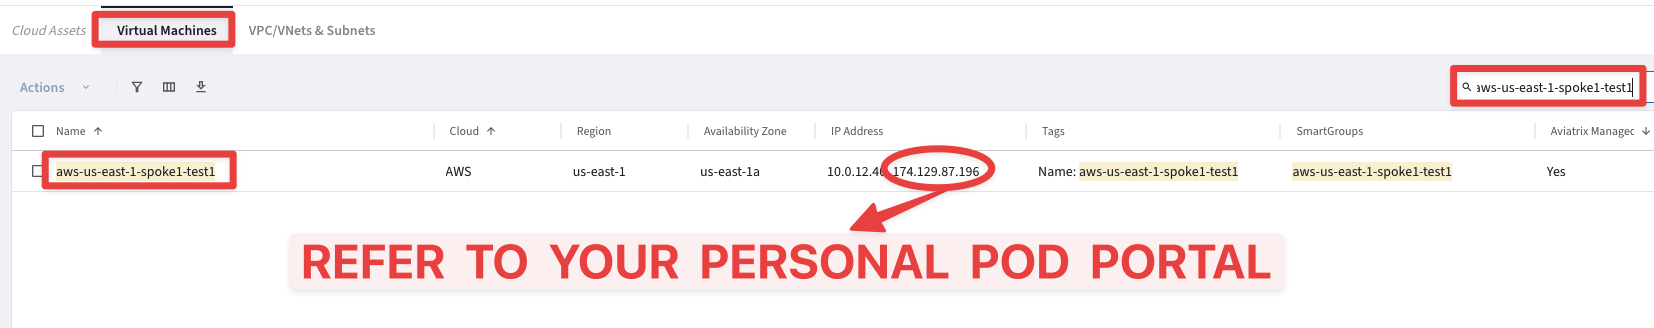
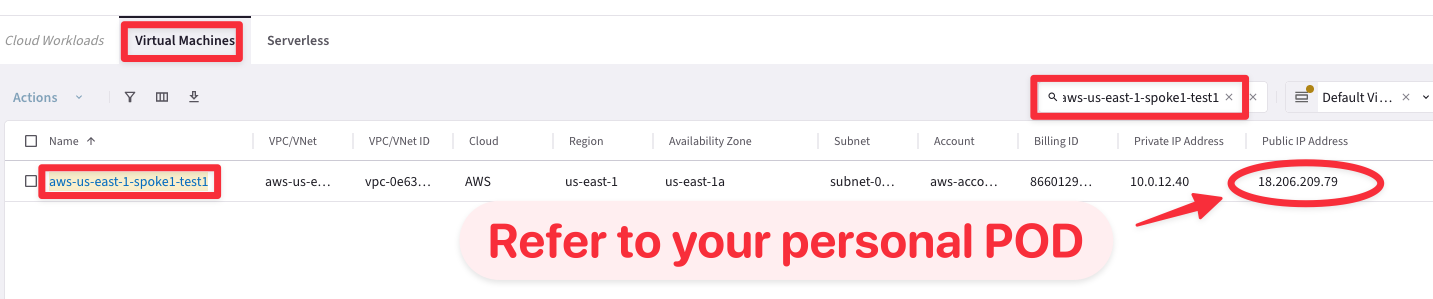
update for pro

diff --git a/ace_pro/docs/lab9.md b/ace_pro/docs/lab9.md
@@ -135,7 +135,7 @@ The EC2 instance is actively communicating with a **malicious IP** address.
 
 Retrieve the Public IP address of **_aws-us-east-1-spoke1-test1_** instance:
 
-- Navigate to **CoPilot > Cloud Resources > Cloud Assets > Virtual Machines**, search for `aws-us-east-1-spoke1-test1` and then copy the **Public** IPv4 address!
+- Navigate to **CoPilot > Cloud Resources > Cloud Workloads > Virtual Machines**, search for `aws-us-east-1-spoke1-test1` and then copy the **Public** IPv4 address!
 
 ```{figure} images/lab9-newsg010.png
 ---
